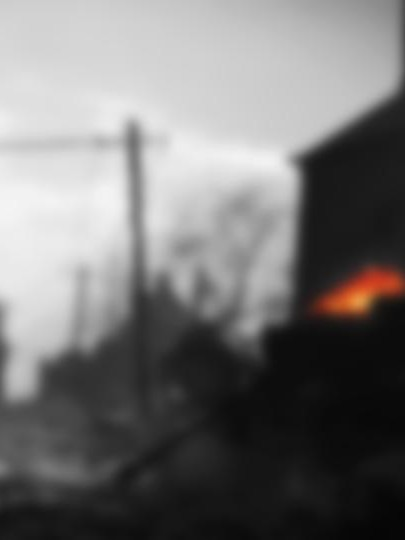
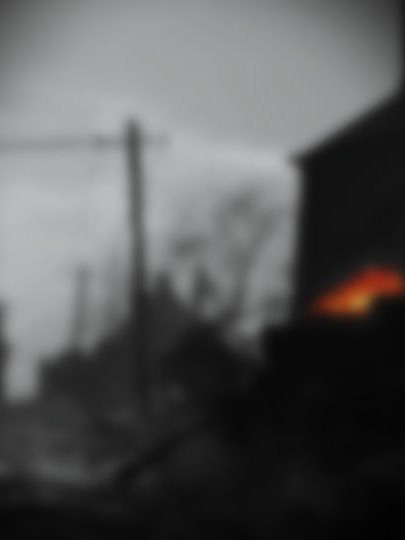
a

diff --git a/cogs/scoreboard.py b/cogs/scoreboard.py
@@ -18,6 +18,9 @@ from data_paths import data_path
 # Config (fill these in)
 # -----------------------------
 
+# Guild scope for slash commands (set this to your server ID)
+GUILD_ID: int = 1462382487622914079
+
 # Role allowed to use admin scoreboard edit commands
 ADMIN_ROLE_ID: int = 1109147750932676649
 
@@ -607,6 +610,7 @@ class ScoreboardCog(commands.Cog):
 	def __init__(self, bot: commands.Bot):
 		self.bot = bot
 		self.store = ScoreboardStore()
+		self._did_guild_sync = False
 
 	async def cog_load(self) -> None:
 		await self.store.load()
@@ -625,6 +629,16 @@ class ScoreboardCog(commands.Cog):
 
 	@commands.Cog.listener()
 	async def on_ready(self):
+		# Guild-scoped slash command sync (instant availability in this guild).
+		if not self._did_guild_sync and GUILD_ID:
+			try:
+				await self.bot.tree.sync(guild=discord.Object(id=GUILD_ID))
+				self._did_guild_sync = True
+			except Exception:
+				log.exception("Failed syncing scoreboard commands to guild %s", GUILD_ID)
+				# Don't flip the flag; we'll retry next on_ready.
+				return
+
 		# Post/repair the main scoreboard message and leaderboard message.
 		await self.ensure_scoreboard_message()
 		await self.ensure_leaderboard_message()
@@ -739,19 +753,29 @@ class ScoreboardCog(commands.Cog):
 
 		# Latest result text (centered)
 		last = self.store.data.get("last_result")
+		center_y = result_top + ((result_bottom - result_top) // 2)
 		if isinstance(last, dict):
-			result_text = f"{last.get('a_name','')} {last.get('a_score',0)} - {last.get('b_score',0)} {last.get('b_name','')}".strip()
+			a_name = str(last.get("a_name", "") or "")
+			b_name = str(last.get("b_name", "") or "")
+			a_score = int(last.get("a_score", 0))
+			b_score = int(last.get("b_score", 0))
+			score_text = f"{a_score} - {b_score}"
+
+			# Score centered, clans anchored left/right so they don't crowd the numbers.
+			max_score_w = int((w - 2 * margin) * 0.45)
+			score_font = _fit_font(score_text, max_score_w, start_size=_clamp(int(h * 0.075), 30, 120), min_size=20)
+			clan_font = _fit_font(a_name if len(a_name) >= len(b_name) else b_name, int((w - 2 * margin) * 0.35), start_size=_clamp(int(h * 0.070), 28, 110), min_size=18)
+
+			left_x = margin + int(w * 0.08)
+			right_x = w - margin - int(w * 0.08)
+			draw.text((left_x, center_y), a_name, font=clan_font, fill=text_fill, anchor="lm")
+			draw.text((w // 2, center_y), score_text, font=score_font, fill=text_fill, anchor="mm")
+			draw.text((right_x, center_y), b_name, font=clan_font, fill=text_fill, anchor="rm")
 		else:
 			result_text = "NO RESULTS YET"
-
-		max_result_w = (w - 2 * margin) - 40
-		result_font = _fit_font(result_text, max_result_w, start_size=_clamp(int(h * 0.070), 30, 110), min_size=20)
-		bbox = draw.textbbox((0, 0), result_text, font=result_font)
-		text_w = bbox[2] - bbox[0]
-		text_h = bbox[3] - bbox[1]
-		x = (w - text_w) // 2
-		y = result_top + ((result_bottom - result_top - text_h) // 2)
-		draw.text((x, y), result_text, font=result_font, fill=text_fill)
+			max_result_w = (w - 2 * margin) - 40
+			result_font = _fit_font(result_text, max_result_w, start_size=_clamp(int(h * 0.075), 30, 120), min_size=20)
+			draw.text((w // 2, center_y), result_text, font=result_font, fill=text_fill, anchor="mm")
 
 		# Leaderboard table (auto-fit all teams)
 		rows = _sorted_leaderboard_rows(self.store.data.get("clan_stats", {}))
@@ -767,8 +791,9 @@ class ScoreboardCog(commands.Cog):
 		col_idx = margin + int(w * 0.02)
 		col_name = margin + int(w * 0.12)
 		# Evenly space numeric columns in a fixed right-side band
-		numeric_right = w - margin - int(w * 0.04)
-		numeric_left = w - margin - int(w * 0.40)
+		# Shift the numeric band left a touch so Score doesn't crowd W.
+		numeric_right = w - margin - int(w * 0.07)
+		numeric_left = w - margin - int(w * 0.46)
 		segment = max(1, (numeric_right - numeric_left) / 3)
 		col_score = int(numeric_left + segment * 0.5)
 		col_w = int(numeric_left + segment * 1.5)
@@ -922,6 +947,7 @@ class ScoreboardCog(commands.Cog):
 		return _is_admin_member(interaction.user)
 
 
+	@app_commands.guilds(discord.Object(id=GUILD_ID))
 	@app_commands.command(name="scoreboard_admin_edit_clan", description="Admin: edit a clan's leaderboard values")
 	@app_commands.check(_admin_app_command_check)
 	async def scoreboard_admin_edit_clan(
@@ -957,6 +983,7 @@ class ScoreboardCog(commands.Cog):
 		await interaction.followup.send(f"Updated {clan_role.name}: score={score}, W={wins}, L={losses}", ephemeral=True)
 
 
+	@app_commands.guilds(discord.Object(id=GUILD_ID))
 	@app_commands.command(name="scoreboard_admin_edit_match", description="Admin: edit a confirmed match and adjust leaderboard")
 	@app_commands.check(_admin_app_command_check)
 	async def scoreboard_admin_edit_match(
@@ -1039,6 +1066,7 @@ class ScoreboardCog(commands.Cog):
 		await self.ensure_leaderboard_message()
 		await interaction.followup.send(f"Updated match {match_id} to {new_a}-{new_b} and adjusted leaderboard.", ephemeral=True)
 
+	@app_commands.guilds(discord.Object(id=GUILD_ID))
 	@app_commands.command(name="scoreboard_admin_set_latest", description="Admin: set the displayed latest result line")
 	@app_commands.check(_admin_app_command_check)
 	async def scoreboard_admin_set_latest(
@@ -1074,6 +1102,7 @@ class ScoreboardCog(commands.Cog):
 		await self.ensure_leaderboard_message()
 		await interaction.followup.send(f"Set latest result to {_role_name_from_id(clan_a.id)} {a}-{b} {_role_name_from_id(clan_b.id)}.", ephemeral=True)
 
+	@app_commands.guilds(discord.Object(id=GUILD_ID))
 	@app_commands.command(name="scoreboard_repost", description="Repost/repair the scoreboard and leaderboard messages")
 	@app_commands.checks.has_permissions(administrator=True)
 	async def scoreboard_repost(self, interaction: discord.Interaction):
